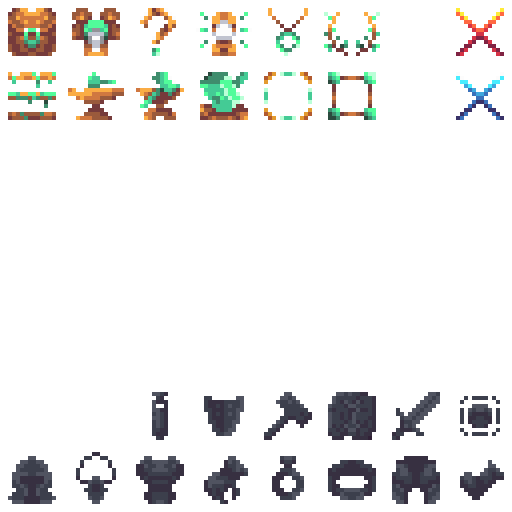
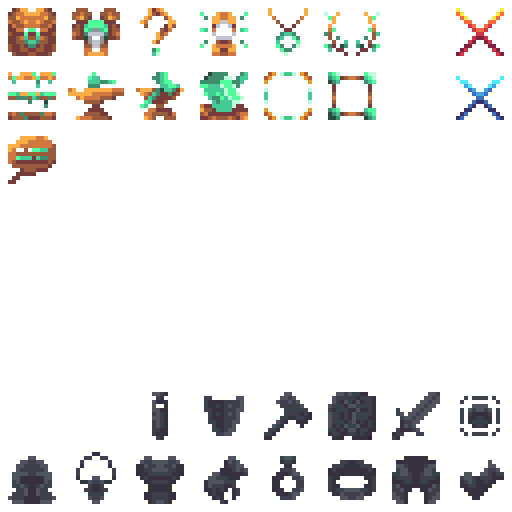
worked on chat for #871

Changed region(s): [[0.0, 0.25, 0.125, 0.375]]

diff --git a/src/client/ui/templates/messages/messages.js b/src/client/ui/templates/messages/messages.js
@@ -37,21 +37,27 @@ define([
 			this.onEvent('onGetCustomChatChannels', this.onGetCustomChatChannels.bind(this));
 			this.onEvent('onGetBlockedPlayers', this.onGetBlockedPlayers.bind(this));
 
+			this
+				.find('.filter:not(.channel):not(.btn)')
+				.on('mouseover', this.onFilterHover.bind(this, true))
+				.on('mouseleave', this.onFilterHover.bind(this, false))
+				.on('click', this.onClickFilter.bind(this));
+
 			if (isMobile) {
-				this.on('click', this.toggle(true));
+				this.el.on('click', this.toggle.bind(this, true));
 				this.renderKeyboard();
+
+				$(tplTab)
+					.appendTo(this.find('.filters'))
+					.addClass('btnClose')
+					.html('x')
+					.on('click', this.toggle.bind(this, false, true));
 			} else {
 				this.find('input')
 					.on('keydown', this.sendChat.bind(this))
 					.on('input', this.checkChatLength.bind(this))
 					.on('blur', this.toggle.bind(this, false, true));
 			}
-
-			this
-				.find('.filter:not(.channel)')
-				.on('mouseover', this.onFilterHover.bind(this, true))
-				.on('mouseleave', this.onFilterHover.bind(this, false))
-				.on('click', this.onClickFilter.bind(this));
 
 			this.onEvent('onKeyDown', this.onKeyDown.bind(this));
 			this.onEvent('onKeyUp', this.onKeyUp.bind(this));
@@ -81,7 +87,7 @@ define([
 			let container = $('<div class="keyboard"></div>')
 				.appendTo(this.el);
 
-			'|1234567890|qwertyuiop|asdfghjkl|zxcvbnm>|'	
+			'1234567890|qwertyuiop|asdfghjkl|zxcvbnm>'	
 				.split('')
 				.forEach(k => {
 					if (k === '|') {
@@ -98,18 +104,23 @@ define([
 		},
 
 		clickKey: function (key) {
+			window.navigator.vibrate(20);
+
 			if (key === '>') {
 				this.sendChat({
 					which: 13
 				});
+				this.find('.input').html('');
+				this.find('input').val('');
+
 				return;
 			}
 
-			let input = this.find('input');
-			input.val(input.val() + key);
+			let elInput = this.find('input');
+			elInput.val(elInput.val() + key);
 			this.checkChatLength();
 
-			this.find('.input').html(input.val());
+			this.find('.input').html(elInput.val());
 		},
 
 		checkChatLength: function () {
@@ -277,7 +288,7 @@ define([
 			events.emit('onShowItemTooltip', item, ttPos, true, true);
 		},
 
-		toggle: function (show, isFake) {
+		toggle: function (show, isFake, e) {
 			if ((isFake) && (this.hoverFilter))
 				return;
 
@@ -293,6 +304,9 @@ define([
 				this.find('.list').scrollTop(9999999);
 			} else 
 				textbox.val('');
+
+			if (e)
+				e.stopPropagation();
 		},
 
 		sendChat: function (e) {

diff --git a/src/client/ui/templates/messages/styles.less b/src/client/ui/templates/messages/styles.less
@@ -184,10 +184,27 @@
 }
 
 .mobile .uiMessages {
-	z-index: 999999999;
+	padding: 0px;
+	pointer-events: all;
+
+	.btnClose.active {
+		float: right;
+		margin-right: 0px;
+		padding: 5px 20px;
+		color: @redA;
+	}
 
 	input {
 		display: none;
+	}
+
+	.filters {
+		margin-bottom: 0px;
+	}
+
+	.list {
+		height: 100%;
+		max-height: 100%;
 	}
 
 	&.typing {
@@ -196,6 +213,9 @@
 		width: 100%;
 		height: 100%;
 		background-color: fade(@darkGray, 90%);
+		display: flex;
+		flex-direction: column;
+		z-index: 999999999;
 
 		.input {
 			display: block;
@@ -212,11 +232,9 @@
 			flex-direction: row;
 			flex-wrap: wrap;
 			background-color: @blackB;
-			position: absolute;
-			bottom: 10px;
 			justify-content: center;
 			align-items: center;
-			padding: 10px;
+			height: 224px;
 
 			.key {
 				flex: 1;
@@ -239,6 +257,7 @@
 		bottom: auto;
 		width: @btnSize;
 		height: @btnSize;
+		background-color: fade(@darkGray, 90%);
 
 		&:after {
 			content: '';
@@ -246,7 +265,7 @@
 			left: 0px;
 			top: 0px;
 			background: url('../../../images/uiIcons.png');
-			background-position: -448px -64px;
+			background-position: -0px -128px;
 			width: @btnSize;
 			height: @btnSize;
 		}

diff --git a/src/client/ui/templates/menu/menu.js b/src/client/ui/templates/menu/menu.js
@@ -50,8 +50,9 @@ define([
 			}
 		},
 
-		toggleButtons: function () {
+		toggleButtons: function (e) {
 			this.el.toggleClass('active');
+			e.stopPropagation();
 		}
 	};
 });
